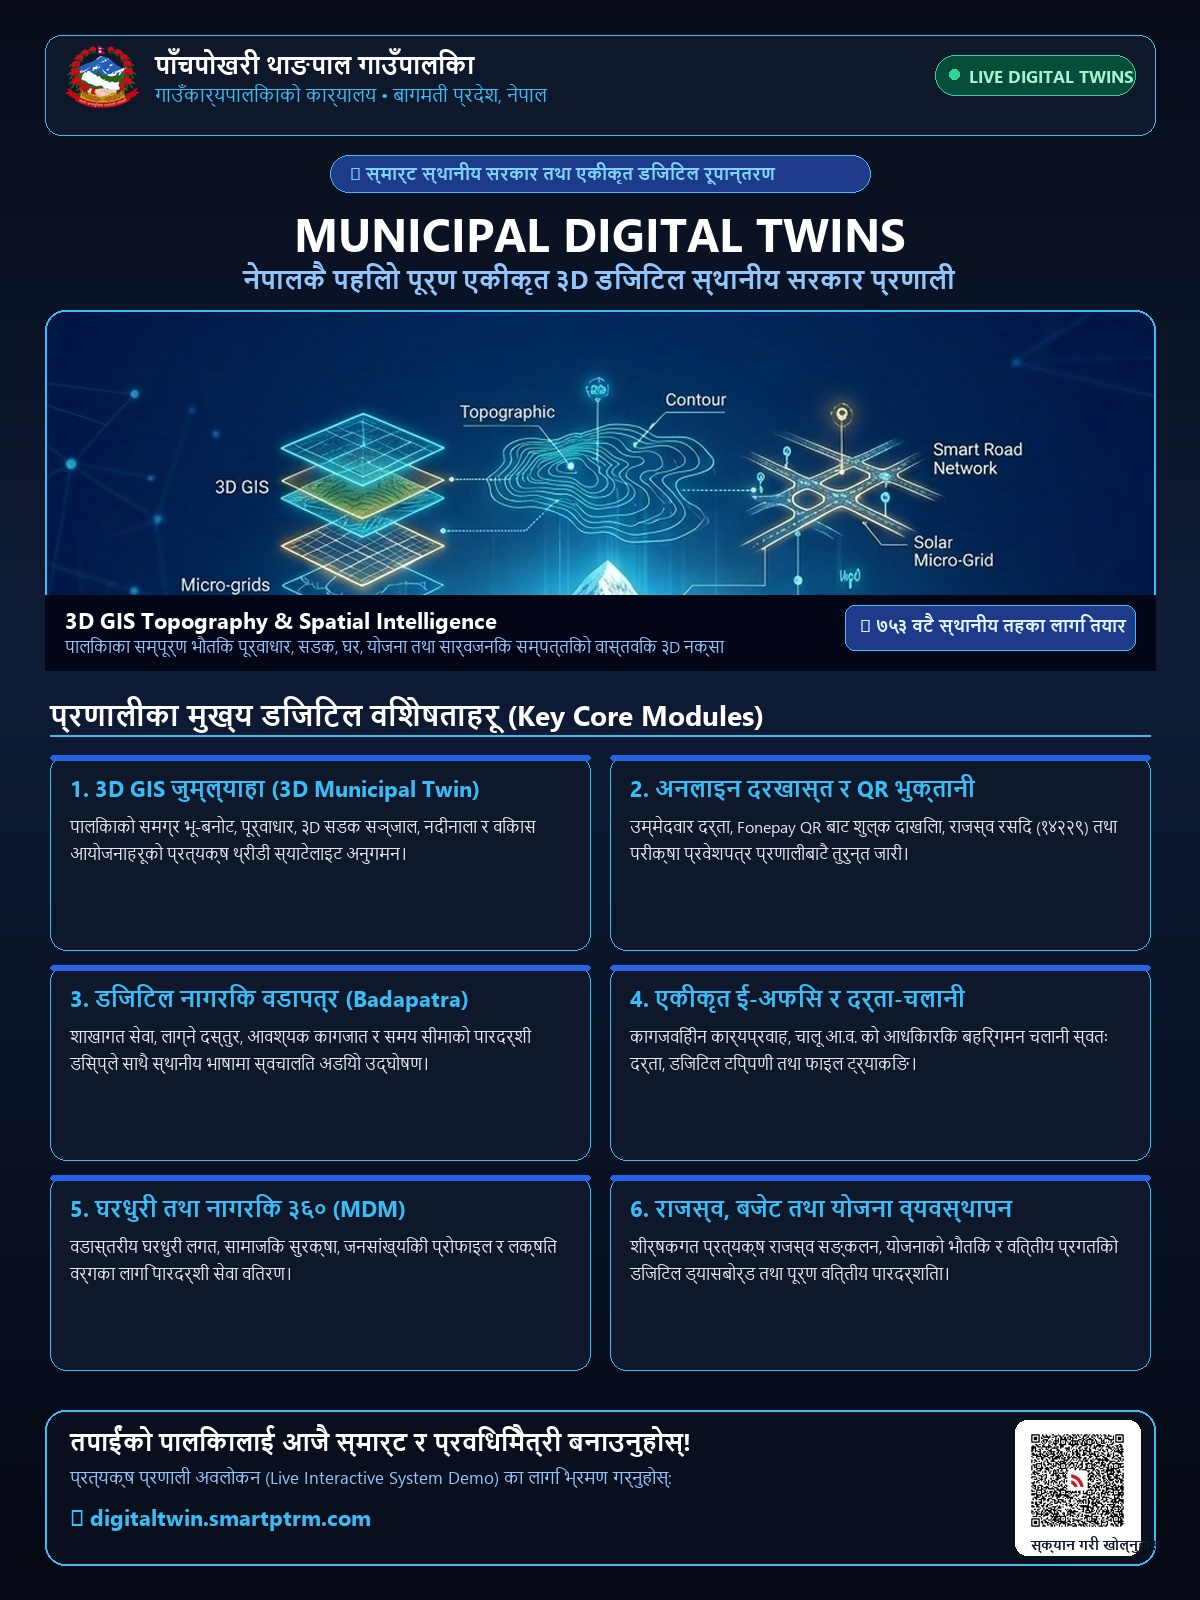
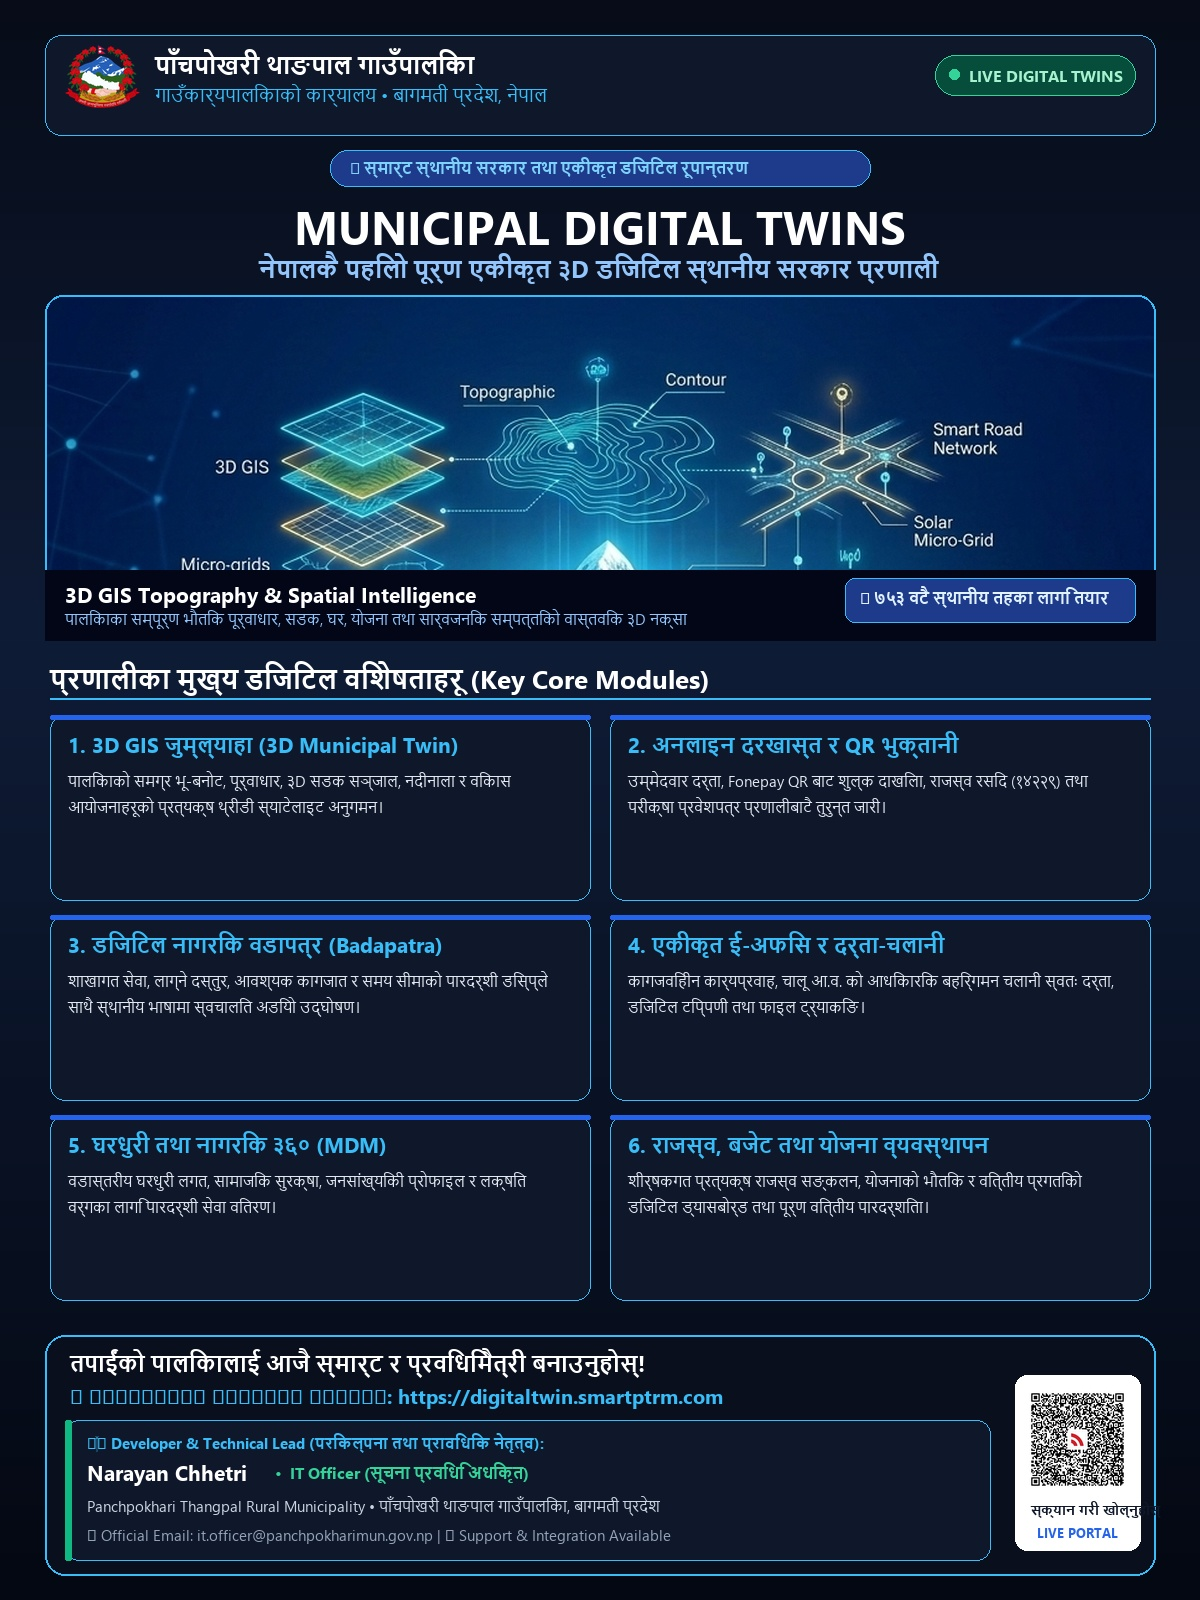
feat(marketing): add developer credit for Narayan Chhetri IT Officer in posters

diff --git a/frontend/public/marketing_poster.html b/frontend/public/marketing_poster.html
@@ -319,8 +319,11 @@
     <button class="btn" onclick="window.print()">
       🖨 Poster प्रिन्ट वा PDF सेभ गर्नुहोस्
     </button>
-    <a href="/assets/municipal_digital_twins_poster.jpg" target="_blank" class="btn btn-secondary" download="Municipal_Digital_Twins_Poster.jpg">
-      ⬇ HD Poster फोटो डाउनलोड गर्नुहोस्
+    <a href="/assets/Municipal_Digital_Twins_Features_Poster.png" target="_blank" class="btn btn-secondary" download="Municipal_Digital_Twins_Features_Poster.png">
+      ⬇ HD PNG Poster डाउनलोड
+    </a>
+    <a href="/assets/Municipal_Digital_Twins_Features_Poster.jpg" target="_blank" class="btn btn-secondary" download="Municipal_Digital_Twins_Features_Poster.jpg">
+      ⬇ HD JPG Poster डाउनलोड
     </a>
     <a href="/app/recruitment" class="btn btn-secondary">
       ⬅ मुख्य प्रणालीमा फर्कनुहोस्
@@ -415,6 +418,19 @@
           प्रत्यक्ष प्रणाली अवलोकन (Live Demo) का लागि भ्रमण गर्नुहोस्:<br>
           🌐 <a href="https://digitaltwin.smartptrm.com" target="_blank" class="cta-url">digitaltwin.smartptrm.com</a>
         </p>
+
+        <!-- DEVELOPER CREDIT -->
+        <div style="margin-top: 1.1rem; padding: 0.75rem 1.1rem; background: rgba(15, 23, 42, 0.75); border: 1px solid rgba(56, 189, 248, 0.35); border-radius: 12px; border-left: 4px solid #10b981;">
+          <div style="font-size: 0.72rem; color: #38bdf8; font-weight: 700; text-transform: uppercase; letter-spacing: 0.05em; margin-bottom: 0.15rem;">
+            👨💻 Developer & Technical Lead (परिकल्पना तथा प्राविधिक नेतृत्व)
+          </div>
+          <div style="font-size: 1.05rem; font-weight: 800; color: #ffffff;">
+            Narayan Chhetri <span style="font-size: 0.82rem; color: #34d399; font-weight: 700; margin-left: 0.4rem;">• IT Officer (सूचना प्रविधि अधिकृत)</span>
+          </div>
+          <div style="font-size: 0.8rem; color: #cbd5e1; margin-top: 0.2rem;">
+            Panchpokhari Thangpal Rural Municipality (पाँचपोखरी थाङपाल गाउँपालिका, बागमती प्रदेश)
+          </div>
+        </div>
       </div>
 
       <div class="footer-qr-card">

diff --git a/scripts/generate_features_poster.py b/scripts/generate_features_poster.py
@@ -7,7 +7,6 @@ draw = ImageDraw.Draw(poster)
 
 # Gradient background
 for y in range(H):
-    # subtle gradient from #070c18 to #0f1c36 to #040812
     factor = y / float(H)
     if factor < 0.4:
         r = int(7 + (15 - 7) * (factor / 0.4))
@@ -22,29 +21,32 @@ for y in range(H):
 # Fonts
 font_path_b = "C:/Windows/Fonts/NirmalaB.ttf"
 font_path_r = "C:/Windows/Fonts/Nirmala.ttf"
-font_path_arial_b = "C:/Windows/Fonts/arialbd.ttf"
 font_path_segoe_b = "C:/Windows/Fonts/segoeuib.ttf"
 
 font_top_gov = ImageFont.truetype(font_path_b, 24)
 font_top_sub = ImageFont.truetype(font_path_r, 18)
-font_badge = ImageFont.truetype(font_path_b, 17)
+font_badge = ImageFont.truetype(font_path_b, 16)
 
 font_hero_title = ImageFont.truetype(font_path_segoe_b, 46)
-font_hero_sub = ImageFont.truetype(font_path_b, 25)
+font_hero_sub = ImageFont.truetype(font_path_b, 24)
 
-font_sec_heading = ImageFont.truetype(font_path_b, 28)
+font_sec_heading = ImageFont.truetype(font_path_b, 26)
 
-font_card_title = ImageFont.truetype(font_path_b, 22)
-font_card_desc = ImageFont.truetype(font_path_r, 16)
+font_card_title = ImageFont.truetype(font_path_b, 21)
+font_card_desc = ImageFont.truetype(font_path_r, 15)
 
-font_footer_h = ImageFont.truetype(font_path_b, 24)
-font_footer_p = ImageFont.truetype(font_path_r, 17)
-font_footer_url = ImageFont.truetype(font_path_segoe_b, 22)
+font_footer_h = ImageFont.truetype(font_path_b, 22)
+font_footer_url = ImageFont.truetype(font_path_segoe_b, 20)
+
+font_dev_label = ImageFont.truetype(font_path_b, 15)
+font_dev_name = ImageFont.truetype(font_path_segoe_b, 21)
+font_dev_role = ImageFont.truetype(font_path_b, 16)
+font_dev_palika = ImageFont.truetype(font_path_r, 15)
+
 font_qr_label = ImageFont.truetype(font_path_b, 13)
 
-# 1. TOP HEADER (y: 40 to 140)
-# Draw header container
-draw.rounded_rectangle([45, 35, W - 45, 135], radius=16, fill=(15, 23, 42, 180), outline=(56, 189, 248, 60), width=1)
+# 1. TOP HEADER (y: 35 to 135)
+draw.rounded_rectangle([45, 35, W - 45, 135], radius=16, fill=(15, 23, 42, 190), outline=(56, 189, 248, 60), width=1)
 
 # Emblem
 try:
@@ -64,58 +66,52 @@ draw.rounded_rectangle([badge_x1, badge_y1, badge_x2, badge_y2], radius=20, fill
 draw.ellipse([badge_x1 + 14, badge_y1 + 14, badge_x1 + 24, badge_y1 + 24], fill=(52, 211, 153))
 draw.text((badge_x1 + 34, badge_y1 + 9), "LIVE DIGITAL TWINS", fill=(167, 243, 208), font=font_badge)
 
-# 2. HERO TITLE SECTION (y: 155 to 260)
+# 2. HERO TITLE SECTION (y: 150 to 255)
 hero_badge_text = "🚀 स्मार्ट स्थानीय सरकार तथा एकीकृत डिजिटल रूपान्तरण"
-draw.rounded_rectangle([W//2 - 270, 155, W//2 + 270, 192], radius=18, fill=(30, 58, 138, 120), outline=(56, 189, 248, 120), width=1)
-draw.text((W//2 - 250, 161), hero_badge_text, fill=(125, 211, 252), font=font_badge)
+draw.rounded_rectangle([W//2 - 270, 150, W//2 + 270, 186], radius=18, fill=(30, 58, 138, 120), outline=(56, 189, 248, 120), width=1)
+draw.text((W//2 - 250, 156), hero_badge_text, fill=(125, 211, 252), font=font_badge)
 
 title_text = "MUNICIPAL DIGITAL TWINS"
 bbox_title = draw.textbbox((0, 0), title_text, font=font_hero_title)
 title_w = bbox_title[2] - bbox_title[0]
-draw.text(((W - title_w) // 2, 202), title_text, fill=(255, 255, 255), font=font_hero_title)
+draw.text(((W - title_w) // 2, 195), title_text, fill=(255, 255, 255), font=font_hero_title)
 
 sub_text = "नेपालकै पहिलो पूर्ण एकीकृत ३D डिजिटल स्थानीय सरकार प्रणाली"
 bbox_sub = draw.textbbox((0, 0), sub_text, font=font_hero_sub)
 sub_w = bbox_sub[2] - bbox_sub[0]
-draw.text(((W - sub_w) // 2, 262), sub_text, fill=(147, 197, 253), font=font_hero_sub)
+draw.text(((W - sub_w) // 2, 252), sub_text, fill=(147, 197, 253), font=font_hero_sub)
 
-# 3. 3D VISUAL SHOWCASE (y: 310 to 670)
+# 3. 3D VISUAL SHOWCASE (y: 295 to 640)
 try:
     bg_3d = Image.open("frontend/public/assets/municipal_digital_twins_poster.jpg").convert("RGBA")
-    # crop & resize to width 1110, height 360
-    target_w, target_h = W - 90, 360
+    target_w, target_h = W - 90, 345
     bg_crop = bg_3d.resize((target_w, int(bg_3d.height * (target_w / bg_3d.width))), Image.Resampling.LANCZOS)
-    # crop middle portion
     crop_top = (bg_crop.height - target_h) // 3
     bg_final = bg_crop.crop((0, crop_top, target_w, crop_top + target_h))
     
-    # Overlay rounded border
     mask = Image.new("L", (target_w, target_h), 0)
     draw_mask = ImageDraw.Draw(mask)
-    draw_mask.rounded_rectangle([0, 0, target_w, target_h], radius=20, fill=255)
+    draw_mask.rounded_rectangle([0, 0, target_w, target_h], radius=18, fill=255)
     
-    poster.paste(bg_final, (45, 310), mask)
-    
-    # Border & overlay banner on image
-    draw.rounded_rectangle([45, 310, W - 45, 310 + target_h], radius=20, outline=(56, 189, 248, 180), width=2)
+    poster.paste(bg_final, (45, 295), mask)
+    draw.rounded_rectangle([45, 295, W - 45, 295 + target_h], radius=18, outline=(56, 189, 248, 180), width=2)
     
     # Bottom glass caption over 3D image
-    draw.rounded_rectangle([45, 310 + target_h - 75, W - 45, 310 + target_h], radius=0, fill=(2, 6, 23, 210))
-    draw.text((65, 310 + target_h - 65), "3D GIS Topography & Spatial Intelligence", fill=(255, 255, 255), font=font_card_title)
-    draw.text((65, 310 + target_h - 35), "पालिकाका सम्पूर्ण भौतिक पूर्वाधार, सडक, घर, योजना तथा सार्वजनिक सम्पत्तिको वास्तविक ३D नक्सा", fill=(147, 197, 253), font=font_card_desc)
+    draw.rounded_rectangle([45, 295 + target_h - 70, W - 45, 295 + target_h], radius=0, fill=(2, 6, 23, 215))
+    draw.text((65, 295 + target_h - 60), "3D GIS Topography & Spatial Intelligence", fill=(255, 255, 255), font=font_card_title)
+    draw.text((65, 295 + target_h - 32), "पालिकाका सम्पूर्ण भौतिक पूर्वाधार, सडक, घर, योजना तथा सार्वजनिक सम्पत्तिको वास्तविक ३D नक्सा", fill=(147, 197, 253), font=font_card_desc)
     
     # Right pill on image
-    draw.rounded_rectangle([W - 355, 310 + target_h - 65, W - 65, 310 + target_h - 20], radius=10, fill=(30, 58, 138, 220), outline=(56, 189, 248), width=1)
-    draw.text((W - 340, 310 + target_h - 57), "✓ ७५३ वटै स्थानीय तहका लागि तयार", fill=(224, 242, 254), font=font_badge)
+    draw.rounded_rectangle([W - 355, 295 + target_h - 62, W - 65, 295 + target_h - 18], radius=10, fill=(30, 58, 138, 220), outline=(56, 189, 248), width=1)
+    draw.text((W - 340, 295 + target_h - 54), "✓ ७५३ वटै स्थानीय तहका लागि तयार", fill=(224, 242, 254), font=font_badge)
 except Exception as e:
     print(f"3D image composite error: {e}")
 
-# 4. SECTION HEADER: "मुख्य डिजिटल विशेषताहरू (Key Highlights)" (y: 695 to 735)
-draw.text((50, 695), "प्रणालीका मुख्य डिजिटल विशेषताहरू (Key Core Modules)", fill=(255, 255, 255), font=font_sec_heading)
-draw.line([(50, 735), (W - 50, 735)], fill=(56, 189, 248, 80), width=2)
+# 4. SECTION HEADER (y: 660 to 700)
+draw.text((50, 660), "प्रणालीका मुख्य डिजिटल विशेषताहरू (Key Core Modules)", fill=(255, 255, 255), font=font_sec_heading)
+draw.line([(50, 698), (W - 50, 698)], fill=(56, 189, 248, 80), width=2)
 
-# 5. SIX DETAILED FEATURE CARDS (y: 755 to 1390)
-# 2 columns x 3 rows
+# 5. SIX DETAILED FEATURE CARDS (y: 715 to 1320)
 features = [
     {
         "icon": "1. 3D GIS जुम्ल्याहा (3D Municipal Twin)",
@@ -144,8 +140,8 @@ features = [
 ]
 
 col_w = (W - 120) // 2
-row_h = 195
-start_y = 755
+row_h = 185
+start_y = 715
 
 for i, feat in enumerate(features):
     col = i % 2
@@ -156,22 +152,18 @@ for i, feat in enumerate(features):
     y2 = y1 + row_h
     
     # Card Background with glowing border
-    draw.rounded_rectangle([x1, y1, x2, y2], radius=16, fill=(15, 23, 42, 220), outline=(56, 189, 248, 90), width=1)
+    draw.rounded_rectangle([x1, y1, x2, y2], radius=15, fill=(15, 23, 42, 220), outline=(56, 189, 248, 85), width=1)
+    draw.rounded_rectangle([x1, y1, x2, y1 + 4], radius=2, fill=(37, 99, 235))
     
-    # Top accent bar inside card
-    draw.rounded_rectangle([x1, y1, x2, y1 + 5], radius=2, fill=(37, 99, 235))
+    draw.text((x1 + 18, y1 + 15), feat["icon"], fill=(56, 189, 248), font=font_card_title)
     
-    # Icon & Title
-    draw.text((x1 + 20, y1 + 18), feat["icon"], fill=(56, 189, 248), font=font_card_title)
-    
-    # Description (multi-line)
     words = feat["desc"].split(" ")
     lines = []
     curr_line = ""
     for w in words:
         test_line = curr_line + (" " if curr_line else "") + w
         bbox = draw.textbbox((0, 0), test_line, font=font_card_desc)
-        if bbox[2] - bbox[0] < col_w - 40:
+        if bbox[2] - bbox[0] < col_w - 36:
             curr_line = test_line
         else:
             lines.append(curr_line)
@@ -180,25 +172,38 @@ for i, feat in enumerate(features):
         lines.append(curr_line)
     
     for l_idx, line in enumerate(lines[:4]):
-        draw.text((x1 + 20, y1 + 60 + l_idx * 27), line, fill=(226, 232, 240), font=font_card_desc)
+        draw.text((x1 + 18, y1 + 55 + l_idx * 26), line, fill=(226, 232, 240), font=font_card_desc)
 
-# 6. FOOTER & CALL TO ACTION (y: 1410 to 1565)
-draw.rounded_rectangle([45, 1410, W - 45, 1565], radius=20, fill=(10, 15, 30, 240), outline=(56, 189, 248, 160), width=2)
+# 6. FOOTER & DEVELOPER CREDIT SECTION (y: 1335 to 1575)
+draw.rounded_rectangle([45, 1335, W - 45, 1575], radius=20, fill=(10, 15, 30, 245), outline=(56, 189, 248, 160), width=2)
 
-draw.text((70, 1425), "तपाईंको पालिकालाई आजै स्मार्ट र प्रविधिमैत्री बनाउनुहोस्!", fill=(255, 255, 255), font=font_footer_h)
-draw.text((70, 1465), "प्रत्यक्ष प्रणाली अवलोकन (Live Interactive System Demo) का लागि भ्रमण गर्नुहोस्:", fill=(147, 197, 253), font=font_footer_p)
-draw.text((70, 1502), "🌐 digitaltwin.smartptrm.com", fill=(56, 189, 248), font=font_footer_url)
+# Left Side: CTA & URL
+draw.text((70, 1348), "तपाईंको पालिकालाई आजै स्मार्ट र प्रविधिमैत्री बनाउनुहोस्!", fill=(255, 255, 255), font=font_footer_h)
+draw.text((70, 1382), "🌐 प्रत्यक्ष प्रणाली अवलोकन: https://digitaltwin.smartptrm.com", fill=(56, 189, 248), font=font_footer_url)
 
-# QR Code Container
+# Prominent Developer Credit Box (y: 1420 to 1560, x: 70 to W - 210)
+dev_box_x1, dev_box_y1, dev_box_x2, dev_box_y2 = 65, 1420, W - 210, 1560
+draw.rounded_rectangle([dev_box_x1, dev_box_y1, dev_box_x2, dev_box_y2], radius=14, fill=(15, 23, 42, 240), outline=(56, 189, 248, 130), width=1)
+draw.rounded_rectangle([dev_box_x1, dev_box_y1, dev_box_x1 + 6, dev_box_y2], radius=2, fill=(16, 185, 129)) # green left accent
+
+# Developer Details
+draw.text((dev_box_x1 + 22, dev_box_y1 + 12), "👨💻 Developer & Technical Lead (परिकल्पना तथा प्राविधिक नेतृत्व):", fill=(56, 189, 248), font=font_dev_label)
+draw.text((dev_box_x1 + 22, dev_box_y1 + 38), "Narayan Chhetri", fill=(255, 255, 255), font=font_dev_name)
+draw.text((dev_box_x1 + 210, dev_box_y1 + 41), "•  IT Officer (सूचना प्रविधि अधिकृत)", fill=(52, 211, 153), font=font_dev_role)
+draw.text((dev_box_x1 + 22, dev_box_y1 + 75), "Panchpokhari Thangpal Rural Municipality • पाँचपोखरी थाङपाल गाउँपालिका, बागमती प्रदेश", fill=(203, 213, 225), font=font_dev_palika)
+draw.text((dev_box_x1 + 22, dev_box_y1 + 104), "📧 Official Email: it.officer@panchpokharimun.gov.np | 📱 Support & Integration Available", fill=(148, 163, 184), font=font_card_desc)
+
+# Right Side: QR Code Container
 qr_box_x = W - 185
-qr_box_y = 1420
-draw.rounded_rectangle([qr_box_x, qr_box_y, qr_box_x + 125, qr_box_y + 135], radius=12, fill=(255, 255, 255))
+qr_box_y = 1375
+draw.rounded_rectangle([qr_box_x, qr_box_y, qr_box_x + 125, qr_box_y + 175], radius=12, fill=(255, 255, 255))
 
 try:
     qr_img = Image.open("frontend/public/assets/nimb_fonepay_qr_code.png").convert("RGBA")
     qr_img.thumbnail((105, 105), Image.Resampling.LANCZOS)
-    poster.paste(qr_img, (qr_box_x + 10, qr_box_y + 8), qr_img)
-    draw.text((qr_box_x + 16, qr_box_y + 115), "स्क्यान गरी खोल्नुहोस्", fill=(15, 23, 42), font=font_qr_label)
+    poster.paste(qr_img, (qr_box_x + 10, qr_box_y + 12), qr_img)
+    draw.text((qr_box_x + 16, qr_box_y + 125), "स्क्यान गरी खोल्नुहोस्", fill=(15, 23, 42), font=font_qr_label)
+    draw.text((qr_box_x + 22, qr_box_y + 148), "LIVE PORTAL", fill=(37, 99, 235), font=font_qr_label)
 except Exception as e:
     print(f"QR paste error: {e}")
 
